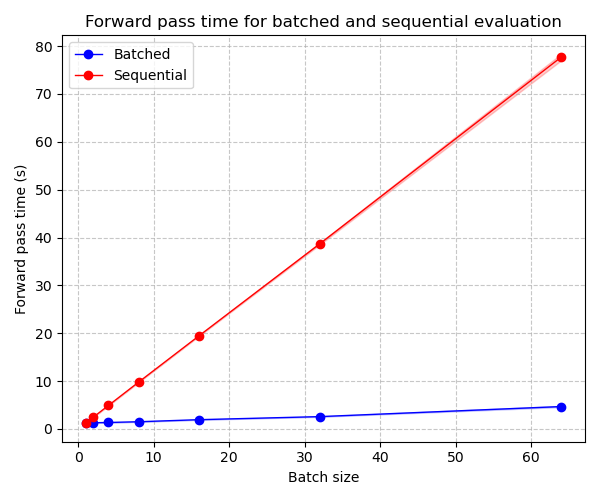
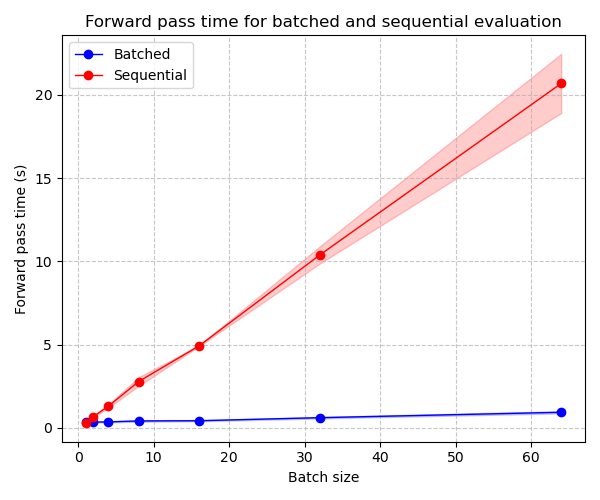
batch benchmark

diff --git a/benchmark/batch_time.py b/benchmark/batch_time.py
@@ -36,7 +36,7 @@ def run_benchmark(args):
 
     mcts = BatchedMCTS(model, config, device)
 
-    mcts.num_simulations = 400
+    mcts.num_simulations = 100
 
     pbar = tqdm(desc="Running batch_size VS time benchmark", total = len(batch_sizes) * n_runs)
     for batch_size in batch_sizes:
@@ -58,17 +58,23 @@ def run_benchmark(args):
 
             results_batched[r] = total_time
 
+            for i in range(batch_size):
+                mcts.reset_tree(i)
+
 
             # Bench unbatched boards
             start = time.time()
 
             for board in boards:
                 _ = mcts.search_batch([board])[0]
+                mcts.reset_tree(0)
 
             total_time = time.time() - start
 
             results_unbatched[r] = total_time
 
+            for i in range(batch_size):
+                mcts.reset_tree(i)
 
 
 
